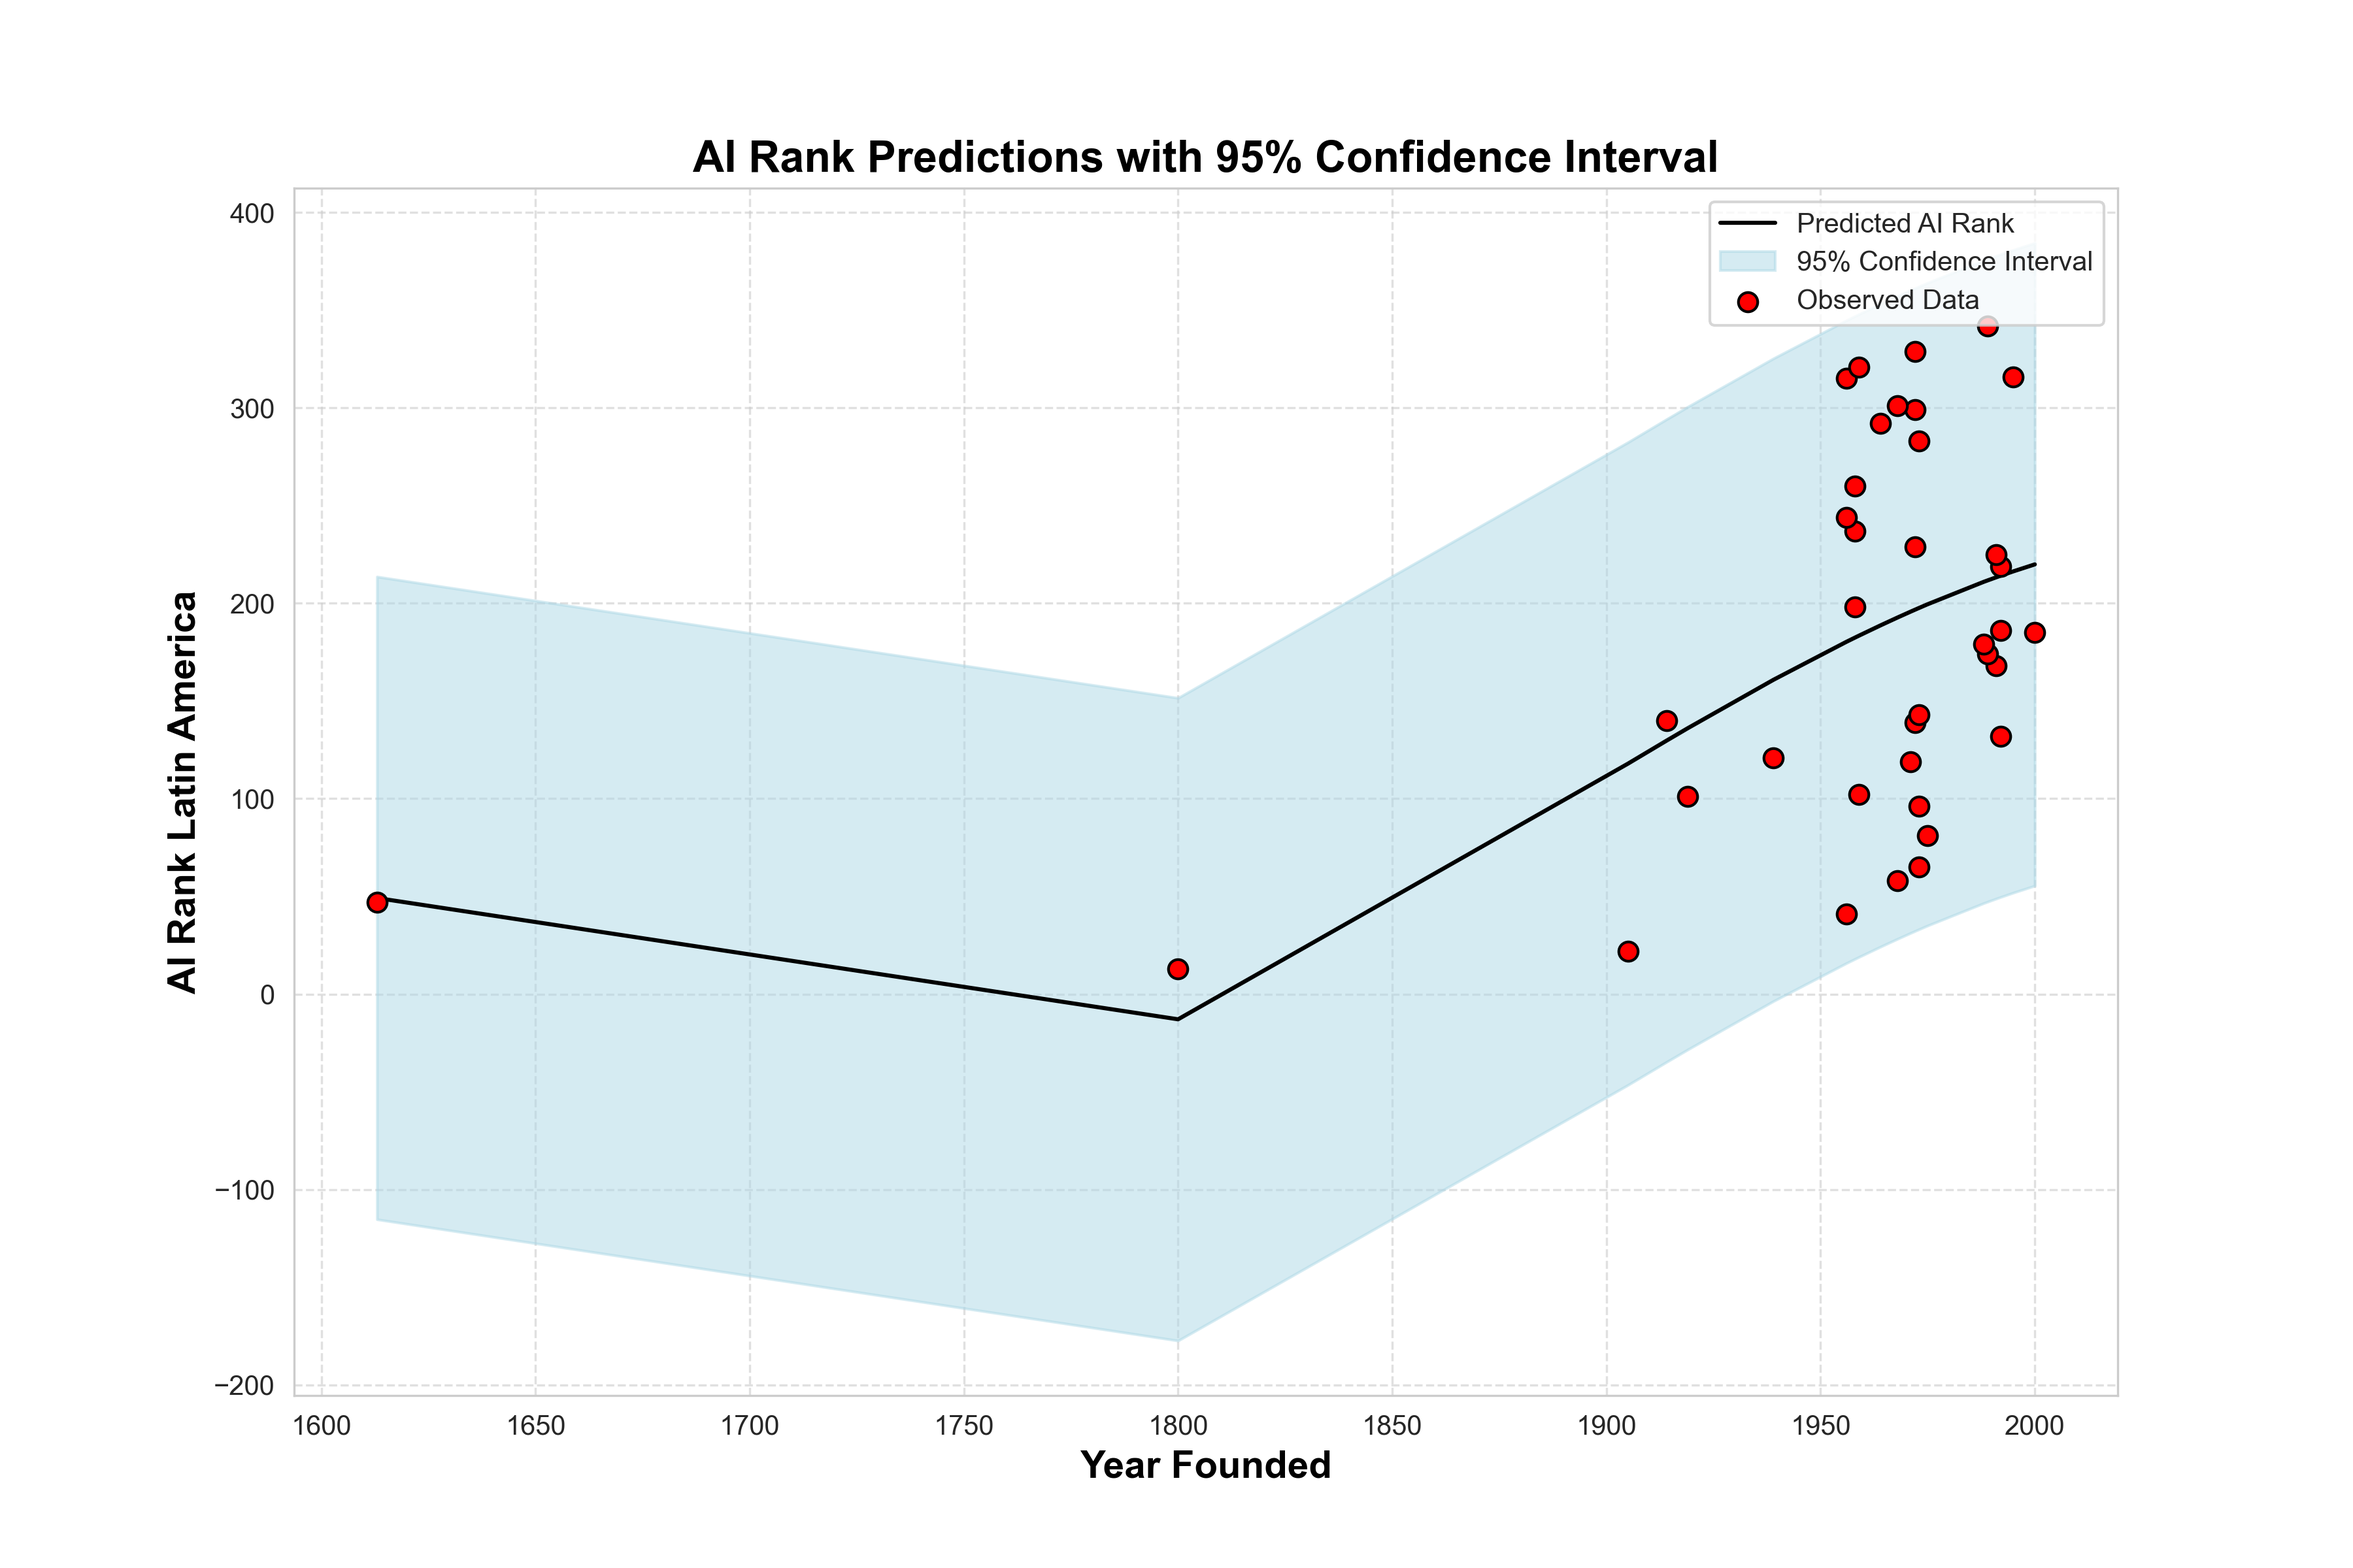
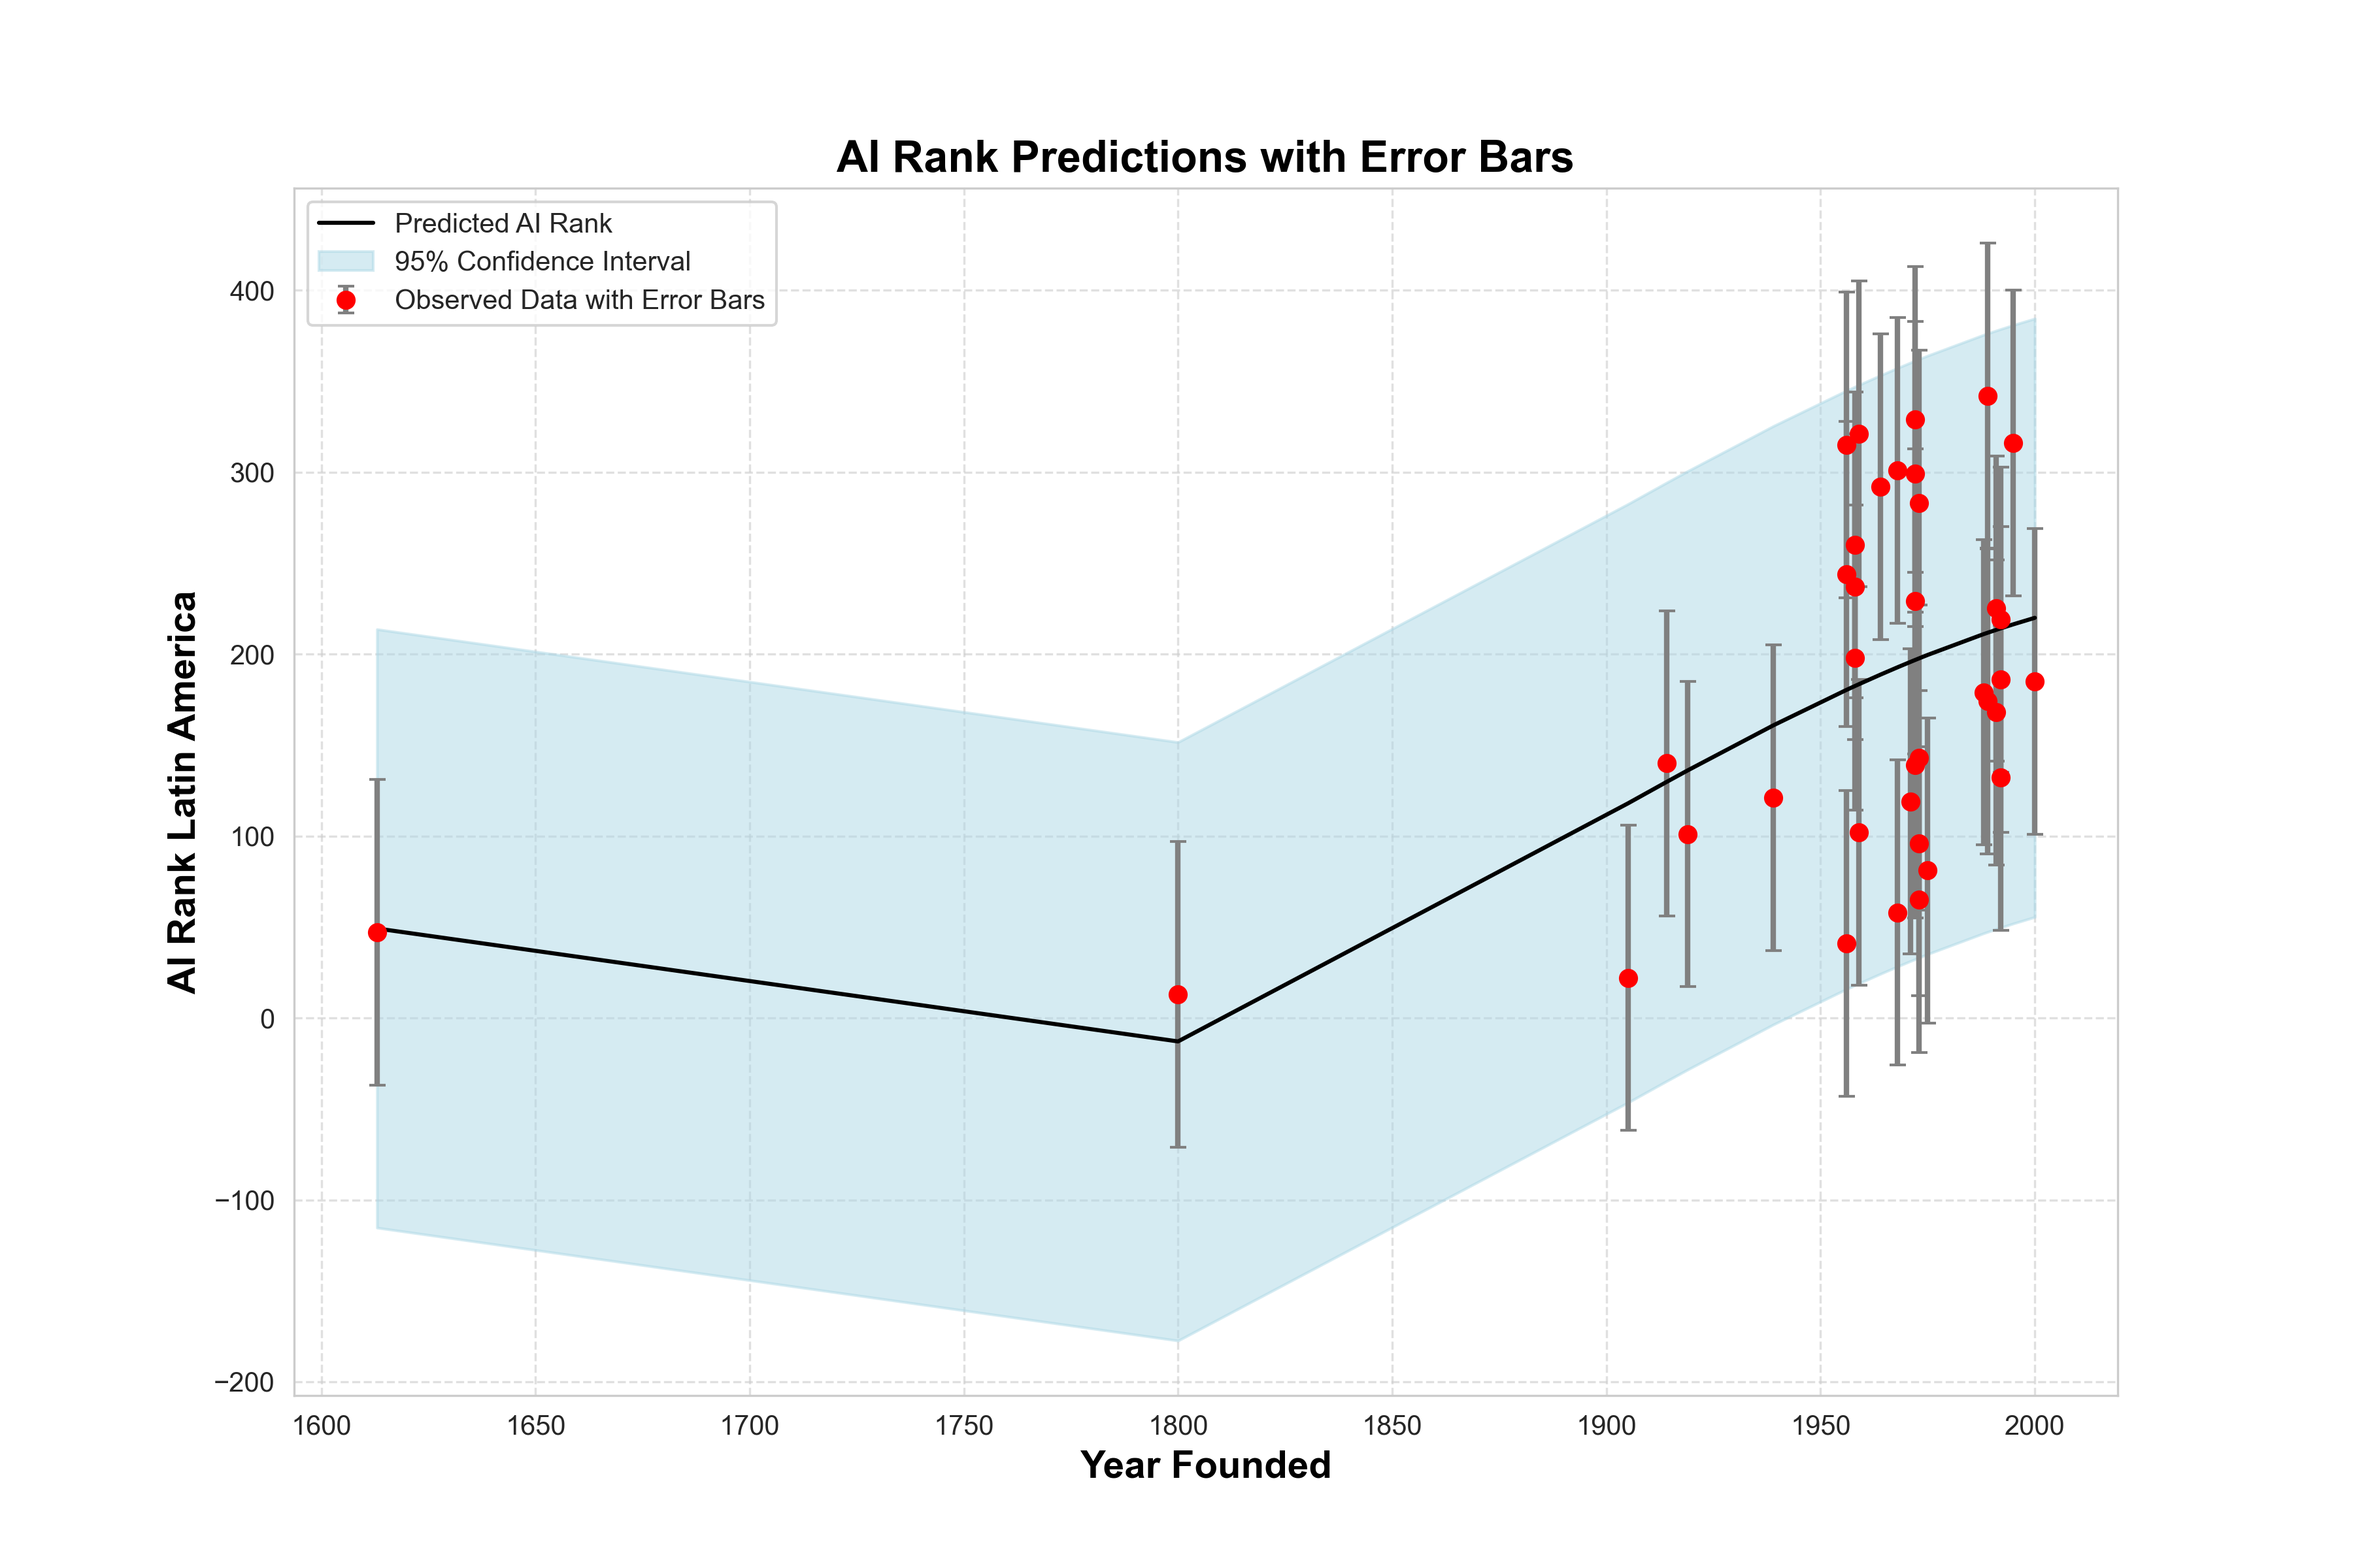
commit

diff --git a/static/graph_gen/visual_error.py b/static/graph_gen/visual_error.py
@@ -4,9 +4,9 @@ import seaborn as sns
 import numpy as np
 from sklearn.linear_model import LinearRegression
 from sklearn.preprocessing import PolynomialFeatures
+import os
 
 # Load the data from CSV
-import os
 project_root = os.path.dirname(os.path.abspath(__file__))  # Get the current file's directory
 data_path = os.path.join(project_root, 'data', 'ai_universities_full_data.csv')
 df = pd.read_csv(data_path)
@@ -22,42 +22,52 @@ model.fit(X_poly, y)
 # Predict the values
 predictions = model.predict(X_poly)
 
-# Calculate 95% confidence interval (assuming normal distribution of errors)
-# Here, we use a simple standard deviation approach; for more accuracy, use bootstrapping or statistical methods
-std_dev = np.std(y - predictions)
-ci = 1.96 * std_dev  # 1.96 for 95% confidence interval
+# Calculate residuals (errors between the observed and predicted values)
+residuals = y - predictions
 
-# Set the style
+# Estimate standard error of predictions (standard deviation of residuals)
+std_dev = np.std(residuals)
+
+# Calculate 95% confidence intervals for the predictions
+ci_upper = predictions + 1.96 * std_dev  # Upper bound of 95% CI
+ci_lower = predictions - 1.96 * std_dev  # Lower bound of 95% CI
+
+# Set the style for Seaborn
 sns.set_style('whitegrid')
+
+# Create the plot
 plt.figure(figsize=(12, 8))
 
-# Sort the values for a smooth continuous plot
+# Sort the values for smooth continuous plot
 sorted_indices = X['Founded Year'].argsort()
 sorted_years = X['Founded Year'].values[sorted_indices]
 sorted_predictions = predictions[sorted_indices]
+sorted_ci_lower = ci_lower[sorted_indices]
+sorted_ci_upper = ci_upper[sorted_indices]
+
+# Scatter plot of observed data with error bars
+plt.errorbar(X['Founded Year'], y, yerr=std_dev, fmt='o', color='red', 
+             ecolor='gray', elinewidth=2, capsize=3, label='Observed Data with Error Bars')
 
 # Plot the predictions line
 plt.plot(sorted_years, sorted_predictions, color='black', label='Predicted AI Rank')
 
 # Add a shaded confidence band around the predictions (±95% confidence interval)
-plt.fill_between(sorted_years, sorted_predictions - ci, sorted_predictions + ci, 
-                 color='lightblue', alpha=0.5, label='95% Confidence Interval')
+plt.fill_between(sorted_years, sorted_ci_lower, sorted_ci_upper, color='lightblue', alpha=0.5, 
+                 label='95% Confidence Interval')
 
-# Overlay actual data points for reference
-plt.scatter(X['Founded Year'], y, color='red', edgecolor='black', s=50, zorder=3, label='Observed Data')
-
-# Add title and labels with customization
-plt.title('AI Rank Predictions with 95% Confidence Interval', fontsize=16, fontweight='bold', color='black')
+# Add title and labels
+plt.title('AI Rank Predictions with Error Bars', fontsize=16, fontweight='bold', color='black')
 plt.xlabel('Year Founded', fontsize=14, fontweight='bold', color='black')
 plt.ylabel('AI Rank Latin America', fontsize=14, fontweight='bold', color='black')
 
 # Add legend
 plt.legend()
 
-# Add grid with reduced opacity for better contrast
+# Show grid
 plt.grid(True, linestyle='--', alpha=0.6)
 
-# Set the background to make it stand out
+# Set the background to white
 plt.gca().set_facecolor('white')
 
 # Save and show the plot
